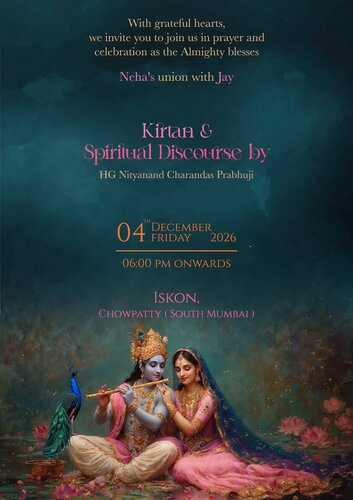
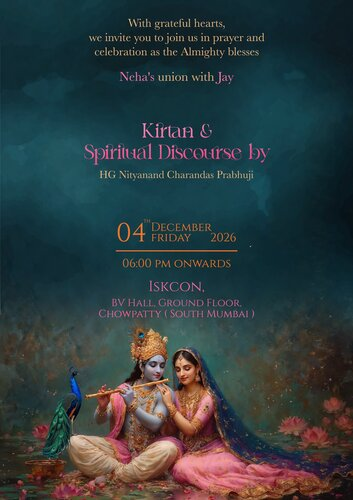
Kirtan venue: spell ISKCON correctly and add BV Hall, Ground Floor
Updated on the invite card (same Cinzel lettering and colour as the
existing venue lines), its thumbnail, and the website text.

Claude-Session: https://claude.ai/code/session_012dS567cbiaieZ5dEPayaH6

Changed region(s): [[0.3116, 0.54, 0.6856, 0.63]]

diff --git a/lib/content.ts b/lib/content.ts
@@ -17,7 +17,7 @@ export const DEFAULT_CONTENT: SiteContent = {
   getting_there: {
     title: "Getting there",
     body:
-      "The Mumbai events sit within the city: Iskon at Chowpatty, Soho Club in Juhu, and Karl Residency in Andheri. Allow extra time for evening traffic.\n\nIkshana Resort, Lonavala is about two and a half hours from Mumbai by road. Tell us in the form above if you would like help with travel.",
+      "The Mumbai events sit within the city: ISKCON at Chowpatty, Soho Club in Juhu, and Karl Residency in Andheri. Allow extra time for evening traffic.\n\nIkshana Resort, Lonavala is about two and a half hours from Mumbai by road. Tell us in the form above if you would like help with travel.",
   },
   where_to_stay: {
     title: "Where to stay",

diff --git a/lib/events.ts b/lib/events.ts
@@ -7,7 +7,7 @@ export const EVENTS: EventDef[] = [
     dateLabel: "Fri 4 Dec",
     dateFull: "04 December, Friday 2026",
     time: "6:00 PM onwards",
-    venue: "Iskon",
+    venue: "ISKCON, BV Hall, Ground Floor",
     place: "Chowpatty (South Mumbai)",
     card: "/cards/kirtan.jpg",
     thumb: "/cards/thumbs/kirtan.jpg",
